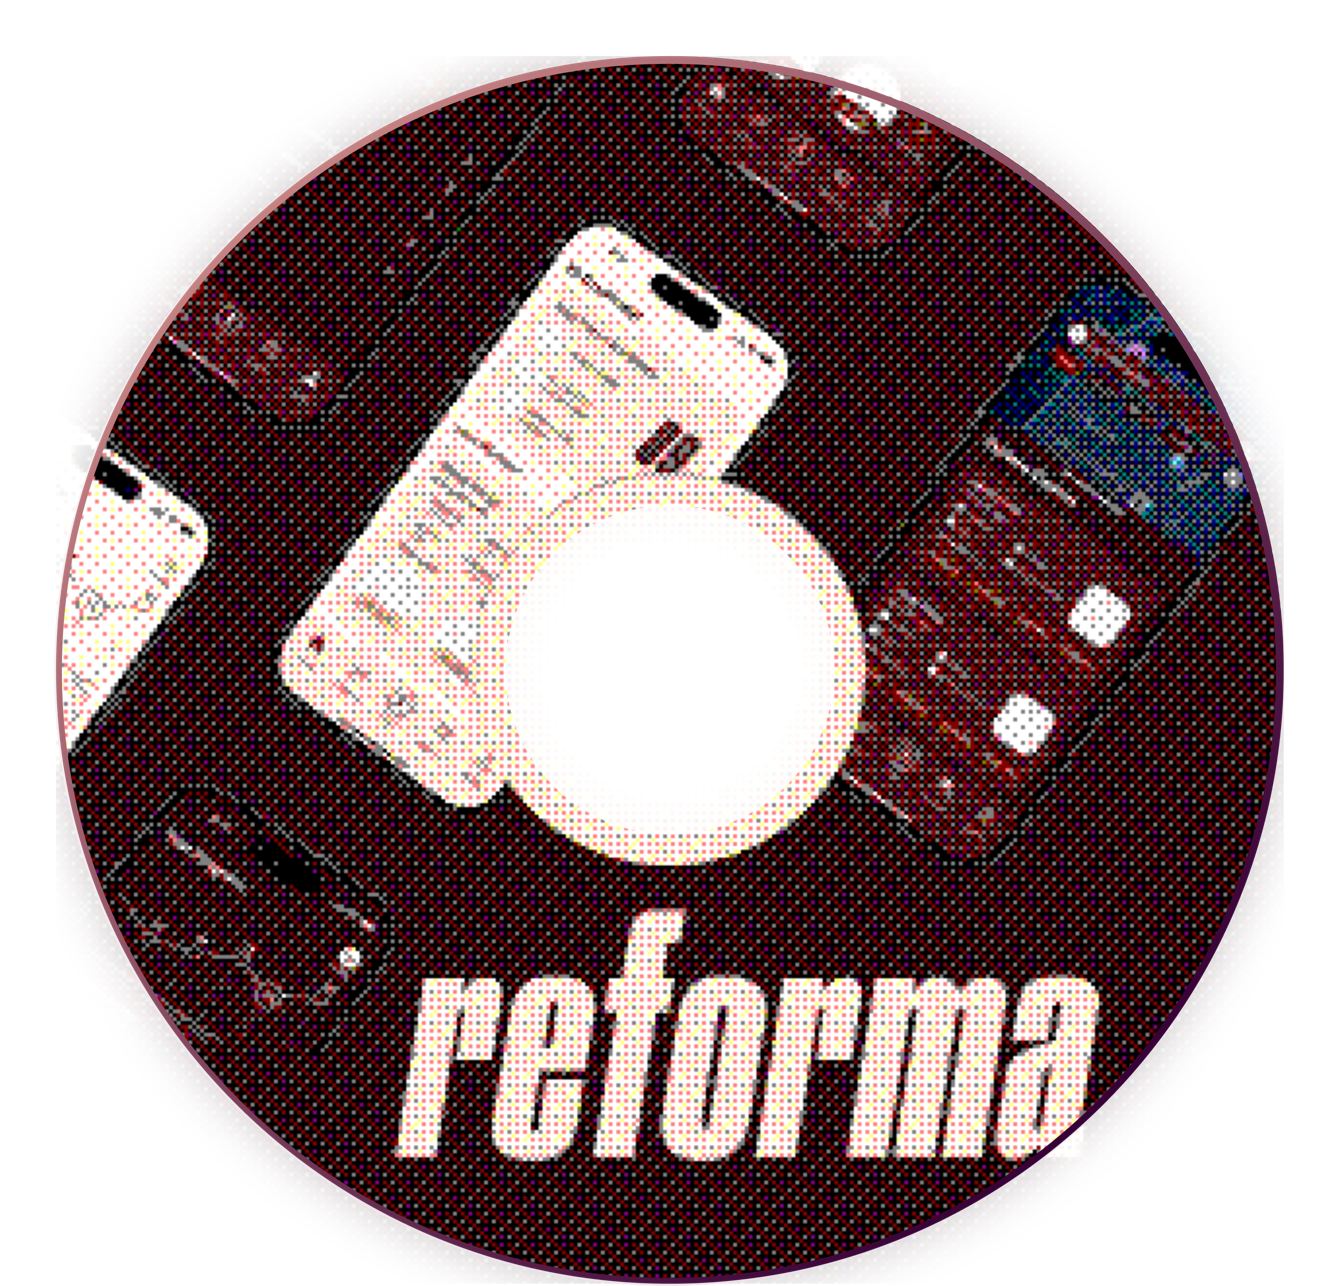
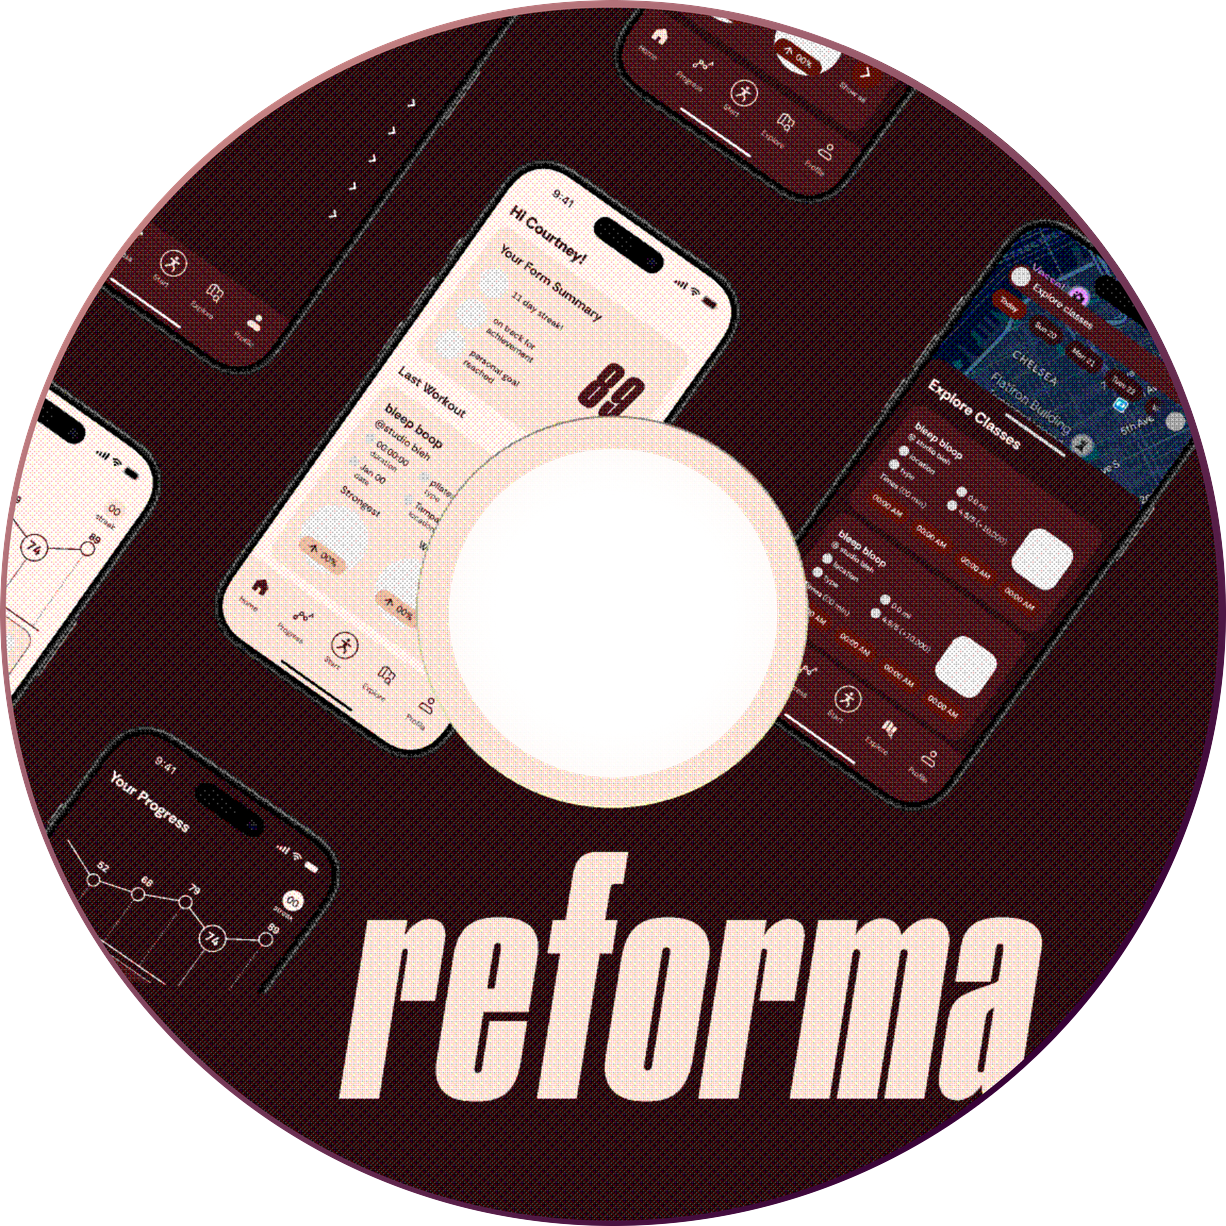
New Reforma CD on the shelf and brief; sentence-case brief headlines; Kohler Co. x SCAD Pro; nest title for office spaces

diff --git a/src/site/caseStudies.ts b/src/site/caseStudies.ts
@@ -2,7 +2,7 @@ export type CaseStudySlug = "nest" | "ribbon" | "milune" | "reforma";
 
 // An exported disc image (Neha's 4x exports in public/assets/home, resized to
 // 2x) and where the disc's circle sits inside it, in image pixels. The export
-// includes the drop shadow, so it's a little bigger than the disc.
+// usually includes the drop shadow, so it can be a little bigger than the disc.
 export type DiscImage = {
   src: string;
   // Offset of the image from the circle's box, and the image size, in the
@@ -41,7 +41,7 @@ export const CASE_STUDIES: CaseStudy[] = [
     shelfTags: ["Interface Design", "Design Systems"],
     brief: {
       title: "Nest Thermostat Redesign",
-      headline: "REDESIGNING INTERFACES TO BE MORE FRIENDLY AND CHEERFUL",
+      headline: "Redesigning interfaces to be more friendly and cheerful",
       tags: ["Interface Design", "Design Systems"],
       meta: [["Company", "SCAD Project"], ["Date", "Fall 2025"], ["Time", "10 Weeks"]],
       disc: { cx: -25.33, cy: -25.33, size: 1152.11, rotate: -45, src: "/assets/briefs/disc-nest.png" },
@@ -56,7 +56,7 @@ export const CASE_STUDIES: CaseStudy[] = [
     shelfTags: ["Design Strategy", "Design Sprint"],
     brief: {
       title: "Ribbon",
-      headline: "A MEMENTO-MAKER FOR THOSE WHO STRUGGLE WITH GIFT GIVING",
+      headline: "A memento-maker for those who struggle with gift-giving",
       tags: ["Design Strategy", "Design Sprint"],
       meta: [["Sprint", "SVSD Design Sprint"], ["Date", "Fall 2026"], ["Time", "6 days"]],
       disc: { cx: 90.66, cy: 49.66, size: 1152.11, rotate: -45, src: "/assets/briefs/disc-ribbon.png" },
@@ -70,7 +70,7 @@ export const CASE_STUDIES: CaseStudy[] = [
     shelfTags: ["Futuristic Design", "Hackathon"],
     brief: {
       title: "Milune",
-      headline: "AN AUDIO OLFACTORY DEVICE THAT BRINGS HOME TO YOU",
+      headline: "An audio olfactory device powered by AI that brings home to you",
       tags: ["Futuristic Design", "Hackathon"],
       meta: [["Sprint", "SCAD Startup"], ["Date", "Winter 2026"], ["Time", "5 days"]],
       disc: { cx: 51.59, cy: 14.59, size: 1152, rotate: -45, src: "/assets/briefs/disc-milune.png" },
@@ -79,12 +79,12 @@ export const CASE_STUDIES: CaseStudy[] = [
   },
   {
     slug: "reforma",
-    shelfDisc: { src: "/assets/home/cd-reforma.png", dx: -57, dy: -57, width: 1340, height: 1286, size: 1226 },
+    shelfDisc: { src: "/assets/home/cd-reforma.png", dx: 0, dy: 0, width: 1226, height: 1226, size: 1226 },
     description: "Designing a mobile app for AI form tracking technology",
     shelfTags: ["End-to-Design", "Product Design"],
     brief: {
       title: "Reforma AI",
-      headline: "DESIGNING A MOBILE APP FOR AI FORM TRACKING TECHNOLOGY",
+      headline: "Designing a mobile app for AI form tracking technology",
       tags: ["End-to-design", "Product Design"],
       meta: [["Company", "Reforma AI"], ["Date", "Summer 2025"], ["Time", "10 Weeks"]],
       disc: { cx: -21.6, cy: -21.53, size: 1152, rotate: -39.91, src: "/assets/briefs/disc-reforma.png" },

diff --git a/src/site/nestText.ts b/src/site/nestText.ts
@@ -24,7 +24,7 @@ export type NestText = {
 
 export const NEST_TEXT: NestText[] = [
   { x: 362, y: 1042, w: 1044, size: 24, text: "Nest Thermostat Redesign" },
-  { x: 362, y: 1078, w: 1044, size: 48, lh: 1.32, ls: -0.96, text: "REDESIGNING INTERFACES TO BE MORE\nFRIENDLY AND CHEERFUL" },
+  { x: 362, y: 1078, w: 1044, size: 48, lh: 1.32, ls: -0.96, text: "Redesigning smart home interfaces to be more\nfriendly and cheerful for office spaces" },
   { x: 362, y: 1239, w: 196, size: 20, opacity: 0.5, text: "Role" },
   { x: 362, y: 1280, w: 196, size: 20, text: "UX Prototoyping Lead" },
   { x: 698.33, y: 1239, w: 111, size: 20, opacity: 0.5, text: "Date" },

diff --git a/src/pages/Job.tsx b/src/pages/Job.tsx
@@ -19,7 +19,7 @@ const JOBS: Record<JobSlug, { title: string; paragraphs: string[]; meta: [string
     pairTop: 834,
   },
   kohler: {
-    title: "Kohler Co. X SCAD Pro",
+    title: "Kohler Co. x SCAD Pro",
     paragraphs: [
       "I worked alongside 12 UX designers to build the\ninformation architecture and functional prototype for a Kohler Konnect wellness product centered around key personas. I also designed key UX/UI features that aligned with stakeholder goals after extensive feedback rounds.",
     ],
